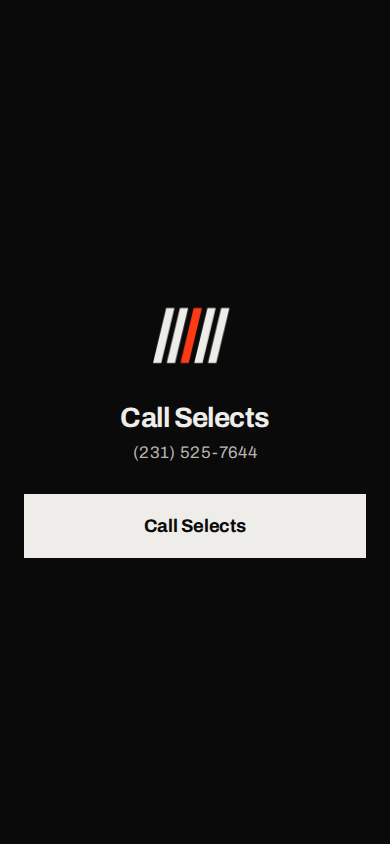
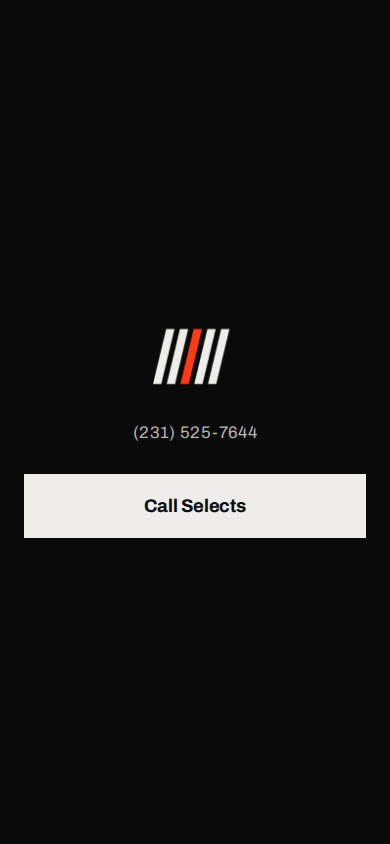
Show Call Selects only on the dialer button.
Keep the document title and OG tags; drop the duplicate heading so the page is logo, number, and one button.

Changed region(s): [[0.0615, 0.3389, 0.9538, 0.6777]]

diff --git a/public/call/index.html b/public/call/index.html
@@ -58,14 +58,8 @@
         height: 88px;
         display: block;
       }
-      h1 {
-        margin: 28px 0 0;
-        font-size: 1.75rem;
-        font-weight: 700;
-        letter-spacing: -0.02em;
-      }
       .number {
-        margin: 10px 0 0;
+        margin: 28px 0 0;
         color: var(--fg-2);
         font-size: 1.05rem;
         letter-spacing: 0.02em;
@@ -92,7 +86,6 @@
   <body>
     <main>
       <img src="/selects-logo.png" width="88" height="88" alt="Selects" />
-      <h1>Call Selects</h1>
       <p class="number">(231) 525-7644</p>
       <a class="call" id="call-selects" href="tel:+12315257644">Call Selects</a>
     </main>

diff --git a/src/lib/callLanding.test.ts b/src/lib/callLanding.test.ts
@@ -20,6 +20,13 @@ describe('call landing page', () => {
     expect(html).toContain('src="/selects-logo.png"');
   });
 
+  it('shows Call Selects only on the button, not as a page heading', () => {
+    const body = html.slice(html.indexOf('<body>'));
+    expect(body.match(/Call Selects/g)).toEqual(['Call Selects']);
+    expect(body).not.toMatch(/<h1\b/);
+    expect(body).toContain('>Call Selects</a>');
+  });
+
   it('links the fallback button to the E.164 tel URI', () => {
     expect(html).toContain('href="tel:+12315257644"');
     expect(html).toContain("var TEL = 'tel:+12315257644'");

diff --git a/e2e/smokes.spec.ts b/e2e/smokes.spec.ts
@@ -62,6 +62,8 @@ test('F-smoke-call', async ({ page }, testInfo) => {
   await expect(page).toHaveURL(/\/call\/?$/);
   await expect(page.getByRole('img', { name: 'Selects' })).toBeVisible();
   await expect(page.getByText('(231) 525-7644')).toBeVisible();
+  await expect(page.getByRole('heading', { name: 'Call Selects' })).toHaveCount(0);
+  await expect(page.getByText('Call Selects')).toHaveCount(1);
   const button = page.getByRole('link', { name: 'Call Selects' });
   await expect(button).toHaveAttribute('href', 'tel:+12315257644');
   await page.goto('/call/');
